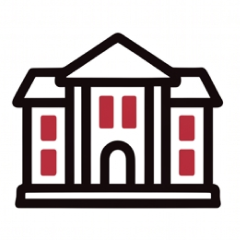
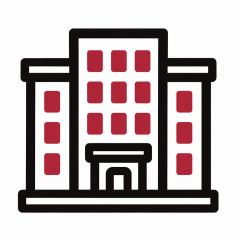
UI 개선: 푸터 고객센터 링크·인증 카드 스태거 애니메이션·프라이싱 차트 순차 등장 추가
- 전체 페이지 푸터에 고객센터 ([email redacted]) 링크 추가
- join.html step01 QR 카드 디자인 개선 및 모바일 다운로드 버튼 전환
- join.html 인증 탭 전환 시 카드 스태거 페이드인 애니메이션 적용
- index.html 프라이싱 차트 IntersectionObserver 기반 순차 등장 효과 추가
- index.html 서류 인증 목업 이미지에 스캔라인 애니메이션 추가
- 배지 아이콘·목업 이미지 업데이트

diff --git a/join.html b/join.html
@@ -143,30 +143,66 @@ body{font-family:var(--font);background:var(--white);color:var(--body);word-brea
 .step1-grid{display:grid;grid-template-columns:1fr 1fr;gap:16px;max-width:720px;margin:0 auto}
 
 .step1-qr-card{
-  background:var(--bg);border-radius:20px;
-  padding:36px 40px;
+  background:linear-gradient(145deg,#d0d4ec 0%,#f4f4f8 45%,#c8ddd5 100%);
+  border-radius:20px;
+  padding:32px 40px 36px;
   display:flex;flex-direction:column;align-items:center;text-align:center;
 }
-.step1-qr-label{
-  font-size:13px;color:var(--muted);
-  letter-spacing:-0.01em;margin-bottom:2px;
+.step1-qr-applogo{
+  width:64px;height:64px;border-radius:16px;
+  object-fit:cover;margin-bottom:10px;
+  box-shadow:0 4px 16px rgba(193,40,56,0.15);
 }
-.step1-qr-cta{
-  font-size:20px;font-weight:700;letter-spacing:-0.02em;
-  color:var(--headline);margin-bottom:28px;
+.step1-qr-brand{
+  font-size:18px;font-weight:800;letter-spacing:-0.03em;
+  color:var(--headline);margin-bottom:20px;
+}
+.step1-qr-box{
+  background:none;
+  padding:28px 32px 32px;
+  display:flex;flex-direction:column;align-items:center;justify-content:center;text-align:center;
+  width:100%;flex:1;
 }
 .step1-qr-img{
-  width:140px;height:140px;
+  width:172px;height:172px;
   display:block;image-rendering:pixelated;
+  background:#ffffff;border-radius:12px;padding:6px;
+  box-sizing:border-box;margin-bottom:24px;
 }
+.step1-qr-label{
+  font-size:14px;color:var(--para);
+  letter-spacing:-0.01em;margin-bottom:4px;margin-top:auto;
+}
+.step1-qr-cta{
+  font-size:20px;font-weight:800;letter-spacing:-0.03em;
+  color:var(--headline);margin-bottom:0;
+}
+.step1-dl-box{
+  display:none;
+  flex-direction:column;width:100%;flex:1;min-height:280px;
+}
+.step1-dl-mockup{
+  flex:1;width:50%;min-height:0;
+  display:block;object-fit:contain;object-position:bottom;
+  margin:0 auto;
+}
+.step1-dl-actions{display:flex;flex-direction:column;gap:10px}
+.step1-dl-btn{
+  display:flex;align-items:center;justify-content:center;
+  padding:15px 0;background:var(--headline);color:#fff;
+  border-radius:999px;font-size:15px;font-weight:700;
+  letter-spacing:-0.02em;text-decoration:none;
+  transition:background .15s;
+}
+.step1-dl-btn:hover{background:var(--dark2)}
 
-.step1-stats{display:flex;flex-direction:column;gap:12px}
+.step1-stats{display:flex;flex-direction:column;gap:12px;height:100%}
 .step1-stat{
   background:var(--bg);border-radius:16px;
   padding:24px 32px;flex:1;text-align:center;
 }
 .step1-stat__label{
-  font-size:13px;color:var(--muted);
+  font-size:14px;color:var(--para);
   letter-spacing:-0.01em;margin-bottom:4px;
 }
 .step1-stat__value{
@@ -179,7 +215,7 @@ body{font-family:var(--font);background:var(--white);color:var(--body);word-brea
 ───────────────────────────────────── */
 .cert-tabs{
   display:flex;flex-direction:row;align-items:center;
-  background:var(--bg2);border-radius:999px;
+  background:var(--border);border-radius:999px;
   padding:5px;gap:4px;
   border:none;margin-bottom:24px;overflow:visible;
   max-width:560px;margin-left:auto;margin-right:auto;
@@ -207,6 +243,11 @@ body{font-family:var(--font);background:var(--white);color:var(--body);word-brea
   padding:20px 24px;
   background:var(--white);border-radius:16px;
   border-bottom:none;
+  opacity:0;transform:translateY(10px);
+}
+.cert-item.anim-in{
+  opacity:1;transform:none;
+  transition:opacity 0.35s ease var(--delay,0ms),transform 0.35s ease var(--delay,0ms);
 }
 .cert-item:last-child{border-bottom:none}
 .cert-item__icon{
@@ -282,7 +323,7 @@ body{font-family:var(--font);background:var(--white);color:var(--body);word-brea
 .step3-card-row:nth-child(3) .step3-card__img{width:42%}
 .step3-card__placeholder{width:100%;height:240px;background:var(--bg2);display:flex;align-items:center;justify-content:center;color:var(--light);font-size:12px}
 .step3-card__text{padding:24px 36px 32px;text-align:center}
-.step3-card__sub{font-size:13px;color:var(--muted);letter-spacing:-0.01em;margin-bottom:4px}
+.step3-card__sub{font-size:14px;color:var(--para);letter-spacing:-0.01em;margin-bottom:4px}
 .step3-card__title{font-size:24px;font-weight:800;letter-spacing:-0.03em;color:var(--headline)}
 
 /* ─────────────────────────────────────
@@ -336,6 +377,8 @@ body{font-family:var(--font);background:var(--white);color:var(--body);word-brea
   .step-two-col{gap:48px}
   .step3-left{text-align:center}
   .step3-left .cs-title,.step3-left .cs-desc{text-align:center}
+  .step1-qr-box{display:none}
+  .step1-dl-box{display:flex}
 }
 
 /* ─────────────────────────────────────
@@ -601,9 +644,17 @@ body{font-family:var(--font);background:var(--white);color:var(--body);word-brea
     </div>
     <div class="step1-grid reveal">
       <div class="step1-qr-card">
-        <p class="step1-qr-label">QR코드로 간편하게</p>
-        <p class="step1-qr-cta">앱 다운로드</p>
-        <img class="step1-qr-img" src="assets/themembers_onelink_qr.svg" alt="앱 다운로드 QR 코드"/>
+        <div class="step1-qr-box">
+          <img class="step1-qr-img" src="assets/themembers_onelink_qr.svg" alt="앱 다운로드 QR 코드"/>
+          <p class="step1-qr-label">QR코드로 간편하게</p>
+          <p class="step1-qr-cta">앱 다운로드</p>
+        </div>
+        <div class="step1-dl-box">
+          <img class="step1-dl-mockup" src="assets/images/mockups/mockup_members card.png" alt="멤버스 카드"/>
+          <div class="step1-dl-actions">
+            <a href="https://themembers.onelink.me/Croy/24o5nmo2" class="step1-dl-btn">다운로드하기</a>
+          </div>
+        </div>
       </div>
       <div class="step1-stats">
         <div class="step1-stat">
@@ -628,8 +679,8 @@ body{font-family:var(--font);background:var(--white);color:var(--body);word-brea
   <div class="wrap">
     <div class="cs-header reveal">
       <p class="cs-num">STEP 02</p>
-      <h2 class="cs-title">프로필 등록 & 인증</h2>
-      <p class="cs-desc">남성은 만 30세 이상, 직업·소득·자산·차량 인증 중 1개 이상이 필수입니다.<br>여성은 만 25세 이상, 경제력 인증 또는 매력 인증 하나만으로 가입이 가능합니다.</p>
+      <h2 class="cs-title">프로필 등록 & 서류 인증</h2>
+      <p class="cs-desc">남성은 만 30세 이상, 직업·소득·자산·차량 인증 중 1개 이상이 필수입니다.<br>여성은 만 25세 이상, 경제력 혹은 매력 인증 하나만으로 가입이 가능합니다.</p>
     </div>
 
       <!-- 수평 탭 -->
@@ -925,6 +976,7 @@ body{font-family:var(--font);background:var(--white);color:var(--body);word-brea
     <div class="footer__links">
       <a href="https://www.themembers.kr/" target="_blank" rel="noopener">개인정보 처리방침</a>
       <a href="https://goldspoon.notion.site/2023-09-11-e2b163aa248948bd9f658a4aed47ea4d" target="_blank" rel="noopener">이용약관</a>
+      <a href="mailto:[email redacted]">고객센터</a>
     </div>
     <p class="footer__info">
       (주)트리플콤마 | 대표 천우영 | 서울특별시 강남구 테헤란로 447, 13층(KB우준타워)<br>
@@ -947,13 +999,33 @@ document.getElementById('navHam').addEventListener('click',()=>{
   document.getElementById('navLinks').classList.toggle('open');
 });
 
+/* ── Cert card stagger ── */
+function staggerCards(panel){
+  const items=panel.querySelectorAll('.cert-item');
+  items.forEach((item,i)=>{
+    item.classList.remove('anim-in');
+    item.style.setProperty('--delay',i*70+'ms');
+  });
+  setTimeout(()=>items.forEach(item=>item.classList.add('anim-in')),16);
+}
+const certPanelsEl=document.querySelector('.cert-panels');
+const certPanelObs=new IntersectionObserver(entries=>{
+  if(entries[0].isIntersecting){
+    staggerCards(document.querySelector('.cert-panel.on'));
+    certPanelObs.unobserve(certPanelsEl);
+  }
+},{threshold:0.1,rootMargin:'0px 0px -30px 0px'});
+certPanelObs.observe(certPanelsEl);
+
 /* ── Cert tabs ── */
 document.querySelectorAll('.cert-tab').forEach(tab=>{
   tab.addEventListener('click',()=>{
     document.querySelectorAll('.cert-tab').forEach(t=>t.classList.remove('on'));
     document.querySelectorAll('.cert-panel').forEach(p=>p.classList.remove('on'));
     tab.classList.add('on');
-    document.getElementById('panel-'+tab.dataset.panel).classList.add('on');
+    const panel=document.getElementById('panel-'+tab.dataset.panel);
+    panel.classList.add('on');
+    staggerCards(panel);
   });
 });
 

diff --git a/index.html b/index.html
@@ -142,8 +142,8 @@ body{font-family:var(--font);background:var(--white);color:var(--body);word-brea
   overflow:hidden;display:flex;flex-direction:column;min-height:374px;
 }
 .fc-eyebrow{
-  display:block;font-size:13px;font-weight:500;
-  color:var(--muted);margin-bottom:8px;letter-spacing:-0.01em;
+  display:block;font-size:14px;font-weight:600;
+  color:var(--para);margin-bottom:8px;letter-spacing:-0.01em;
   text-align:center;
 }
 .fc-title{
@@ -321,6 +321,20 @@ body{font-family:var(--font);background:var(--white);color:var(--body);word-brea
 .verify__visual{
   display:flex;align-items:center;justify-content:center;
 }
+.mockup-scan-wrap{position:relative;overflow:hidden;display:inline-block;line-height:0;border-radius:4px}
+.scan-line{
+  position:absolute;left:8%;right:8%;height:48px;pointer-events:none;
+  background:linear-gradient(
+    180deg,
+    rgba(255,255,255,0) 0%,
+    rgba(193,40,56,0.18) 40%,
+    rgba(255,255,255,0.85) 50%,
+    rgba(193,40,56,0.18) 60%,
+    rgba(255,255,255,0) 100%
+  );
+  animation:scan-move 2.2s ease-in-out infinite;
+}
+@keyframes scan-move{0%{top:25%}50%{top:75%}100%{top:25%}}
 
 /* ─── GUARANTEE ─── */
 .guarantee-inner{
@@ -366,12 +380,16 @@ body{font-family:var(--font);background:var(--white);color:var(--body);word-brea
   max-width:720px;margin:0 auto;padding:0 48px;text-align:center;
 }
 /* ─── PRICING CHART ─── */
-.pricing-chart{max-width:460px;margin:48px auto 0}
-.pricing-chart__stage{display:flex;align-items:flex-end;justify-content:center;gap:32px}
-.pricing-bar{display:flex;flex-direction:column;align-items:center;flex:1;max-width:180px}
+.pricing-chart{max-width:460px;margin:48px auto 0;padding-top:90px}
+.pricing-chart__stage{display:flex;align-items:flex-end;justify-content:center;gap:32px;height:280px}
+.pricing-bar{position:relative;flex:1;max-width:180px}
 .pricing-bar__bubble{
+  position:absolute;bottom:100%;left:50%;
+  transform:translateX(-50%) translateY(8px);
+  width:100%;margin-bottom:12px;
   border-radius:14px;padding:14px 18px;text-align:center;
-  margin-bottom:12px;position:relative;
+  opacity:0;
+  transition:opacity 0.3s ease,transform 0.3s ease;
 }
 .pricing-bar__bubble strong{display:block;font-size:17px;font-weight:800;letter-spacing:-0.03em;line-height:1.25}
 .pricing-bar__bubble span{display:block;font-size:12px;font-weight:500;margin-top:4px;opacity:0.85}
@@ -387,8 +405,11 @@ body{font-family:var(--font);background:var(--white);color:var(--body);word-brea
   width:100%;border-radius:12px 12px 0 0;display:flex;align-items:flex-end;justify-content:center;
   padding-bottom:16px;font-size:13px;font-weight:700;
 }
-.pricing-bar--members .pricing-bar__fill{height:60px;background:linear-gradient(180deg,var(--dark2) 0%,#000 100%);color:rgba(255,255,255,.9)}
-.pricing-bar--agency .pricing-bar__fill{height:280px;background:linear-gradient(180deg,var(--bg2) 0%,var(--border2) 100%);color:var(--muted)}
+.pricing-bar--members .pricing-bar__fill{height:0;background:linear-gradient(180deg,var(--dark2) 0%,#000 100%);color:rgba(255,255,255,.9);transition:height 0.5s ease-out}
+.pricing-bar--agency .pricing-bar__fill{height:0;background:linear-gradient(180deg,var(--bg2) 0%,var(--border2) 100%);color:var(--muted);transition:height 0.7s ease-out}
+.pricing-bar--agency.is-animated .pricing-bar__fill{height:280px}
+.pricing-bar--members.is-animated .pricing-bar__fill{height:60px}
+.pricing-bar.bubble-visible .pricing-bar__bubble{opacity:1;transform:translateX(-50%) translateY(0)}
 .pricing-chart__base{height:2px;background:var(--border2);margin-bottom:28px}
 .pricing-pills{display:flex;justify-content:center;gap:8px;flex-wrap:wrap}
 .pricing-pill{
@@ -497,8 +518,12 @@ body{font-family:var(--font);background:var(--white);color:var(--body);word-brea
   .s-title{font-size:24px}
   .footer__inner{padding:0 20px}
   .pricing-inner{padding:0 20px}
-  .pricing-bar--members .pricing-bar__fill{height:48px}
-  .pricing-bar--agency .pricing-bar__fill{height:220px}
+  .pricing-chart{padding-top:80px}
+  .pricing-chart__stage{height:220px}
+  .pricing-bar--members .pricing-bar__fill{height:0}
+  .pricing-bar--agency .pricing-bar__fill{height:0}
+  .pricing-bar--agency.is-animated .pricing-bar__fill{height:220px}
+  .pricing-bar--members.is-animated .pricing-bar__fill{height:48px}
   .pricing-bar__bubble{padding:12px 14px}
   .pricing-bar__bubble strong{font-size:15px}
   .pricing-pill{font-size:12px;padding:7px 12px}
@@ -833,7 +858,10 @@ body{font-family:var(--font);background:var(--white);color:var(--body);word-brea
       </div>
     </div>
     <div class="verify__visual reveal-r">
-      <img src="assets/images/mockups/Mockup_documents.png" alt="서류 인증 목업" style="width:100%;max-height:480px;object-fit:contain;object-position:center" />
+      <div class="mockup-scan-wrap">
+        <img src="assets/images/mockups/Mockup_documents.png" alt="서류 인증 목업" style="width:100%;max-height:480px;object-fit:contain;object-position:center;display:block" />
+        <div class="scan-line"></div>
+      </div>
     </div>
   </div>
 </section>
@@ -890,19 +918,19 @@ body{font-family:var(--font);background:var(--white);color:var(--body);word-brea
       <p class="s-desc" style="margin:0 auto;">원하는 만남만 1회씩 부담 없이 시작해 보세요.</p>
       <div class="pricing-chart">
         <div class="pricing-chart__stage">
-          <div class="pricing-bar pricing-bar--members">
-            <div class="pricing-bar__bubble">
-              <strong>5천원~8만원대</strong>
-              <span>1회씩 결제 가능</span>
-            </div>
-            <div class="pricing-bar__fill">더멤버스</div>
-          </div>
           <div class="pricing-bar pricing-bar--agency">
             <div class="pricing-bar__bubble">
               <strong>10회 약 400만원</strong>
               <span>선불 일괄 결제</span>
             </div>
             <div class="pricing-bar__fill">결혼정보회사</div>
+          </div>
+          <div class="pricing-bar pricing-bar--members">
+            <div class="pricing-bar__bubble">
+              <strong>5천원~8만원대</strong>
+              <span>1회씩 결제 가능</span>
+            </div>
+            <div class="pricing-bar__fill">더멤버스</div>
           </div>
         </div>
         <div class="pricing-chart__base"></div>
@@ -1294,6 +1322,7 @@ body{font-family:var(--font);background:var(--white);color:var(--body);word-brea
     <div class="footer__links">
       <a href="https://www.themembers.kr/" target="_blank" rel="noopener">개인정보 처리방침</a>
       <a href="https://goldspoon.notion.site/2023-09-11-e2b163aa248948bd9f658a4aed47ea4d" target="_blank" rel="noopener">이용약관</a>
+      <a href="mailto:[email redacted]">고객센터</a>
     </div>
     <p class="footer__info">
       (주)트리플콤마 | 대표 천우영 | 서울특별시 강남구 테헤란로 447, 13층(KB우준타워)<br>
@@ -1437,6 +1466,22 @@ document.querySelectorAll('.reveal,.reveal-l,.reveal-r').forEach(el=>io.observe(
   },{threshold:0.3}).observe(cl);
 })();
 
+</script>
+<script>
+(function(){
+  var section = document.getElementById('pricing');
+  if(!section) return;
+  var agencyBar = section.querySelector('.pricing-bar--agency');
+  var membersBar = section.querySelector('.pricing-bar--members');
+  new IntersectionObserver(function(entries, obs){
+    if(!entries[0].isIntersecting) return;
+    agencyBar.classList.add('is-animated');
+    setTimeout(function(){ agencyBar.classList.add('bubble-visible'); }, 700);
+    setTimeout(function(){ membersBar.classList.add('is-animated'); }, 1000);
+    setTimeout(function(){ membersBar.classList.add('bubble-visible'); }, 1500);
+    obs.disconnect();
+  },{threshold:0.3}).observe(section);
+})();
 </script>
 </body>
 </html>

diff --git a/reviews.html b/reviews.html
@@ -1247,6 +1247,7 @@ body{font-family:var(--font);background:var(--white);color:var(--body);word-brea
     <div class="footer__links">
       <a href="https://www.themembers.kr/" target="_blank" rel="noopener">개인정보 처리방침</a>
       <a href="https://goldspoon.notion.site/2023-09-11-e2b163aa248948bd9f658a4aed47ea4d" target="_blank" rel="noopener">이용약관</a>
+      <a href="mailto:[email redacted]">고객센터</a>
     </div>
     <p class="footer__info">
       (주)트리플콤마 | 대표 천우영 | 서울특별시 강남구 테헤란로 447, 13층(KB우준타워)<br>

diff --git a/support.html b/support.html
@@ -631,6 +631,7 @@ body{font-family:var(--font);background:var(--white);color:var(--para);word-brea
     <div class="footer__links">
       <a href="https://www.themembers.kr/" target="_blank" rel="noopener">개인정보 처리방침</a>
       <a href="https://goldspoon.notion.site/2023-09-11-e2b163aa248948bd9f658a4aed47ea4d" target="_blank" rel="noopener">이용약관</a>
+      <a href="mailto:[email redacted]">고객센터</a>
     </div>
     <p class="footer__info">
       (주)트리플콤마 | 대표 천우영 | 서울특별시 강남구 테헤란로 447, 13층(KB우준타워)<br>